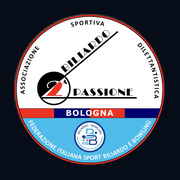
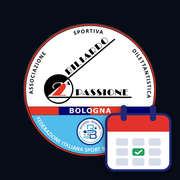
Informativa privacy, prenotazione di orari gia' passati di oggi, nuova icona
Regole: la creazione accetta una prenotazione fino a 16 ore dopo l'inizio.

Claude-Session: https://claude.ai/code/session_013Bh35Dcy3i7okrqVmdRNtn

diff --git a/privacy.html b/privacy.html
@@ -1,0 +1,116 @@
+<!doctype html>
+<html lang="it">
+<head>
+<meta charset="utf-8">
+<meta name="viewport" content="width=device-width,initial-scale=1,viewport-fit=cover">
+<title>Informativa privacy · Prenota 2P</title>
+<link rel="icon" href="img/logo.png">
+<link rel="preconnect" href="https://fonts.gstatic.com" crossorigin>
+<link rel="stylesheet" href="https://fonts.googleapis.com/css2?family=Barlow+Condensed:wght@500;600;700&family=Oswald:wght@600;700&display=swap">
+<link rel="stylesheet" href="css/prenota.css?v=2026112401">
+<style>
+  .manuale li{margin:.35em 0;line-height:1.35}
+  .manuale p{line-height:1.4}
+  .manuale h2 .n{display:inline-block;min-width:1.6em;color:var(--gold)}
+  .manuale a{color:var(--home)}
+  /* parti che il direttivo deve ancora completare: togliere la classe una volta compilate */
+  .da-completare{background:rgba(245,197,66,.18);border-bottom:2px dashed var(--gold);padding:0 3px}
+</style>
+</head>
+<body>
+<header class="testata">
+  <img src="img/logo-96.png" alt="" width="44" height="44">
+  <div class="titoli"><div class="titolo">Informativa privacy</div><div class="sotto">Prenota biliardi</div></div>
+  <a class="sotto destra" href="./">← Torna all'app</a>
+</header>
+<main class="wrap manuale">
+
+<p>Informativa ai sensi degli articoli 13 e 14 del Regolamento (UE) 2016/679 («GDPR») per chi usa l'app
+  di prenotazione dei biliardi <b>Prenota 2P</b>. Ultimo aggiornamento: <span class="da-completare">24 novembre 2026</span>.</p>
+
+<h2><span class="n">1</span>Chi tratta i dati</h2>
+<p>Titolare del trattamento è l'<b>ASD Biliardo Seconda Passione</b>,
+  <span class="da-completare">indirizzo della sede, Bologna</span> — codice fiscale <span class="da-completare">……</span> —
+  email <span class="da-completare">……@……</span>.</p>
+
+<h2><span class="n">2</span>Quali dati</h2>
+<ul>
+  <li><b>Soci registrati</b>: nome e cognome, email, password (custodita in forma cifrata dal servizio di accesso: il circolo non la vede),
+    livello di gioco, ruolo nell'app, data di iscrizione all'app e, per i nuovi soci, il «padrino» indicato dal direttivo.</li>
+  <li><b>Prenotazioni</b>: biliardo, giorno e orario, chi ha prenotato, con chi gioca (nome del socio o nome scritto a mano),
+    tipo di partita (con un'altra persona, da solo, cerco avversario con livello e nota), stato della prenotazione.</li>
+  <li><b>Partite programmate</b>: giorno, orario indicativo, giocatori e note.</li>
+  <li><b>Ospiti</b> (accesso senza registrazione): i nomi scritti nella prenotazione e un codice anonimo che identifica il dispositivo
+    per la sessione; nessuna email.</li>
+  <li><b>Persone indicate da altri</b>: chi prenota può scrivere il nome dell'avversario anche se non è socio. In questo caso il dato
+    non arriva dalla persona stessa: è trattato con le stesse regole e per gli stessi scopi delle altre prenotazioni.</li>
+  <li><b>Dati tecnici</b>: per far funzionare l'app i fornitori indicati al punto 6 ricevono l'indirizzo IP e le informazioni
+    tecniche del browser.</li>
+</ul>
+
+<h2><span class="n">3</span>Perché e su quale base</h2>
+<ul>
+  <li><b>Gestire le prenotazioni dei biliardi</b> e l'uso della sala da parte dei soci: è un servizio che il circolo offre
+    ai propri associati (art. 6.1.b GDPR, esecuzione del rapporto associativo e del servizio richiesto).</li>
+  <li><b>Aiutare i soci a trovare un avversario</b> («Cerco un avversario», bacheca, badge «nuovo socio», padrini):
+    funzione richiesta da chi la usa (art. 6.1.b).</li>
+  <li><b>Prenotazioni da ospite e nomi di non soci</b>: legittimo interesse del circolo a organizzare l'uso dei biliardi
+    (art. 6.1.f GDPR).</li>
+  <li><b>Statistiche d'uso dei tavoli</b> per il direttivo (ore occupate, fasce orarie, uso dei biliardi): legittimo interesse
+    del circolo a organizzare la sala (art. 6.1.f). Le statistiche sono visibili solo al direttivo.</li>
+  <li><b>Sicurezza</b> dell'app e prevenzione degli abusi (art. 6.1.f).</li>
+</ul>
+<p>I dati non sono usati per pubblicità, profilazione o decisioni automatiche e non sono ceduti a terzi.</p>
+
+<h2><span class="n">4</span>Chi li vede</h2>
+<ul>
+  <li><b>Gli altri soci abilitati</b> vedono nome, livello e prenotazioni (con i nomi dei giocatori).</li>
+  <li><b>Gli ospiti</b> vedono solo che un biliardo è occupato, senza nomi.</li>
+  <li><b>Il direttivo</b> (utenze amministratore) vede anche le email, abilita o sospende le utenze, conferma le prenotazioni
+    da ospite e consulta le statistiche.</li>
+</ul>
+
+<h2><span class="n">5</span>Per quanto tempo</h2>
+<ul>
+  <li>Utenza e scheda del socio: finché si è soci e si usa l'app; vengono cancellate su richiesta o
+    <span class="da-completare">entro 3 mesi</span> dalla fine dell'iscrizione al circolo.</li>
+  <li>Prenotazioni con i nomi: <span class="da-completare">24 mesi</span>; dopo, i nomi vengono tolti e restano solo i dati
+    anonimi per le statistiche (biliardo, giorno, orario, durata).</li>
+  <li>Utenze ospite inutilizzate: <span class="da-completare">12 mesi</span>.</li>
+</ul>
+
+<h2><span class="n">6</span>Dove sono custoditi e fornitori</h2>
+<ul>
+  <li><b>Google Firebase</b> (Google Ireland Ltd / Google LLC): database e servizio di accesso. Il database si trova su server
+    in <b>Belgio</b> (regione europe-west1). Google agisce come responsabile del trattamento secondo i
+    «Firebase Data Processing and Security Terms»; eventuali trasferimenti verso gli Stati Uniti sono coperti dall'EU-US
+    Data Privacy Framework e dalle clausole contrattuali standard.</li>
+  <li><b>GitHub</b> (GitHub Inc., Stati Uniti): ospita le pagine dell'app (GitHub Pages) e riceve l'indirizzo IP
+    di chi la apre, per erogare le pagine e per sicurezza.</li>
+  <li><b>Google Fonts</b>: i caratteri del testo sono scaricati dai server di Google, che ricevono l'indirizzo IP.</li>
+</ul>
+
+<h2><span class="n">7</span>Cookie e memoria del browser</h2>
+<p>L'app non usa cookie di profilazione né strumenti di analisi. Salva nella memoria del browser solo la sessione di accesso
+  (per non dover rientrare ogni volta) e, per gli ospiti, l'elenco delle proprie prenotazioni sul dispositivo. Sono strumenti
+  tecnici necessari al servizio richiesto: per questo non serve il consenso. La sessione si cancella con «Esci»; tutto si
+  cancella svuotando i dati del sito nelle impostazioni del browser.</p>
+
+<h2><span class="n">8</span>Minori</h2>
+<p>I soci minori di 14 anni possono registrarsi solo con il consenso di chi esercita la responsabilità genitoriale,
+  da comunicare al direttivo.</p>
+
+<h2><span class="n">9</span>I tuoi diritti</h2>
+<p>Puoi chiedere in qualsiasi momento di accedere ai tuoi dati, correggerli, cancellarli, limitarne l'uso, riceverli in formato
+  leggibile e opporti al trattamento basato sul legittimo interesse (articoli 15–22 GDPR). Il livello di gioco e la password
+  si cambiano anche dall'app, nella scheda <b>Profilo</b>. Per tutto il resto scrivi a
+  <span class="da-completare">……@……</span>. Hai anche diritto di presentare reclamo al
+  <a href="https://www.garanteprivacy.it" target="_blank" rel="noopener">Garante per la protezione dei dati personali</a>.</p>
+
+<h2><span class="n">10</span>Dati obbligatori</h2>
+<p>Nome, email e password sono necessari per avere un'utenza; senza, si può comunque prenotare come ospite. Il livello di gioco
+  serve solo per la funzione «Cerco un avversario».</p>
+
+</main>
+</body>
+</html>

diff --git a/index.html b/index.html
@@ -8,14 +8,14 @@
 <link rel="icon" href="img/logo.png">
 <link rel="manifest" href="manifest.webmanifest">
 <meta name="theme-color" content="#070d18">
-<link rel="apple-touch-icon" href="img/icona-180.png">
+<link rel="apple-touch-icon" href="img/icona-180.png?v=2">
 <meta name="mobile-web-app-capable" content="yes">
 <meta name="apple-mobile-web-app-capable" content="yes">
 <meta name="apple-mobile-web-app-status-bar-style" content="black">
 <meta name="apple-mobile-web-app-title" content="Prenota 2P">
 <link rel="preconnect" href="https://fonts.gstatic.com" crossorigin>
 <link rel="stylesheet" href="https://fonts.googleapis.com/css2?family=Barlow+Condensed:wght@500;600;700&family=Oswald:wght@600;700&display=swap">
-<link rel="stylesheet" href="css/prenota.css?v=2026112306">
+<link rel="stylesheet" href="css/prenota.css?v=2026112401">
 </head>
 <body>
 <header class="testata">
@@ -42,7 +42,8 @@
   <div class="pannello">
     <p>Non sei registrato, o usi il tablet della sala?</p>
     <button class="btn grande" type="button" id="entra-ospite">Entra come ospite</button>
-    <p class="meta">Da ospite prenoti scrivendo i nomi dei giocatori; la prenotazione viene confermata dal direttivo.</p>
+    <p class="meta">Da ospite prenoti scrivendo i nomi dei giocatori; la prenotazione viene confermata dal direttivo.
+      <a href="privacy.html">Informativa privacy</a></p>
   </div>
   <form id="form-registrati" class="pannello" hidden>
     <p>Registrati con la tua email. Il direttivo controlla che tu sia socio e abilita l'utenza: poi potrai prenotare.</p>
@@ -58,7 +59,8 @@
     <summary>Informativa sui dati personali</summary>
     <p>L'ASD Biliardo Seconda Passione conserva nome, cognome, email e livello di gioco dei soci, e le loro prenotazioni,
       solo per gestire l'uso dei biliardi. Nome e prenotazioni sono visibili agli altri soci abilitati; l'email solo al direttivo.
-      I dati sono custoditi su Google Firebase (server in Belgio). Per farli correggere o cancellare scrivi al direttivo.</p>
+      I dati sono custoditi su Google Firebase (server in Belgio). Per farli correggere o cancellare scrivi al direttivo.
+      <a href="privacy.html">Leggi l'informativa completa</a>.</p>
   </details>
 </main>
 
@@ -105,6 +107,7 @@
       <p id="avviso-padrini" class="avviso padrini" hidden></p>
       <div class="legenda">
         <span class="lg libera">Libero</span>
+        <span class="lg passata">Libero, orario già passato</span>
         <span class="lg presto">Non ancora prenotabile</span>
         <span class="lg aperta">Cerca avversario</span>
         <span class="lg confermata">Prenotato</span>
@@ -149,6 +152,7 @@
       <div class="pannello">
         <button class="btn" id="cambia-pw" type="button">Cambia password</button>
         <a class="btn" href="manuale.html">Come si usa</a>
+        <a class="btn" href="privacy.html">Informativa privacy</a>
         <button class="btn" id="esci" type="button">Esci</button>
       </div>
     </section>
@@ -228,14 +232,14 @@
 
 <div id="toast" role="status" aria-live="polite"></div>
 
-<script src="js/config.js?v=2026112306"></script>
-<script src="js/util.js?v=2026112306"></script>
-<script src="js/dati.js?v=2026112306"></script>
-<script src="js/griglia.js?v=2026112306"></script>
-<script src="js/prenotazione.js?v=2026112306"></script>
-<script src="js/bacheca.js?v=2026112306"></script>
-<script src="js/partite.js?v=2026112306"></script>
-<script src="js/soci.js?v=2026112306"></script>
-<script src="js/avvio.js?v=2026112306"></script>
+<script src="js/config.js?v=2026112401"></script>
+<script src="js/util.js?v=2026112401"></script>
+<script src="js/dati.js?v=2026112401"></script>
+<script src="js/griglia.js?v=2026112401"></script>
+<script src="js/prenotazione.js?v=2026112401"></script>
+<script src="js/bacheca.js?v=2026112401"></script>
+<script src="js/partite.js?v=2026112401"></script>
+<script src="js/soci.js?v=2026112401"></script>
+<script src="js/avvio.js?v=2026112401"></script>
 </body>
 </html>

diff --git a/manuale.html b/manuale.html
@@ -7,7 +7,7 @@
 <link rel="icon" href="img/logo.png">
 <link rel="preconnect" href="https://fonts.gstatic.com" crossorigin>
 <link rel="stylesheet" href="https://fonts.googleapis.com/css2?family=Barlow+Condensed:wght@500;600;700&family=Oswald:wght@600;700&display=swap">
-<link rel="stylesheet" href="css/prenota.css?v=2026112306">
+<link rel="stylesheet" href="css/prenota.css?v=2026112401">
 <style>
   .manuale li{margin:.35em 0;line-height:1.35}
   .manuale h2 .n{display:inline-block;min-width:1.6em;color:var(--gold)}
@@ -36,6 +36,7 @@
   <li>Le partite che iniziano <b>prima delle 13</b> si prenotano dalle <b>21 della sera prima</b>; quelle che iniziano <b>dalle 13 alle 22</b>, dalle <b>9 del giorno stesso</b>.
     In alto scegli <b>Oggi</b> o <b>Domani</b>.</li>
   <li>Ogni colonna è un biliardo, ogni riga mezz'ora. Tocca uno spazio <b>verde</b> all'ora in cui vuoi iniziare: vengono proposte <b>2 ore</b> (o meno, se dopo c'è già un'altra prenotazione).</li>
+  <li>Si possono segnare anche partite <b>già iniziate o giocate oggi</b> senza prenotare: le caselle degli orari passati sono più scure, con un filo verde.</li>
   <li>Per cambiare orario o durata <b>trascina</b> il riquadro azzurro (o le sue maniglie in alto e in basso), oppure usa i pulsanti in basso: <b>▲ prima / ▼ dopo</b> e <b>− / +</b>. Si va da 30 minuti a 4 ore. Trascinandolo di lato cambi biliardo.</li>
   <li>Tocca <b>Avanti</b> e scegli con chi giochi: <b>con un'altra persona</b> (scrivi il nome; se è socio compare tra i suggerimenti; se non lo è spunta «Non è socio»), <b>da solo</b> o <b>cerco un avversario</b>. Poi tocca <b>Prenota</b>.</li>
   <li>Gli spazi a righe non sono ancora prenotabili; quelli scuri sono passati.</li>
@@ -82,6 +83,7 @@
 
 <h2 id="novita"><span class="n">8</span>Novità</h2>
 <ul>
+  <li><b>24 novembre 2026</b> — Si possono prenotare anche orari già passati di oggi. Nuova icona dell'app. Informativa privacy completa (in fondo alla pagina di accesso e nel Profilo).</li>
   <li><b>23 novembre 2026</b> — Le prenotazioni compaiono anche quando il browser ha molte finestre aperte (al massimo con 15 secondi di ritardo).</li>
   <li><b>23 novembre 2026</b> — L'app usa meno connessioni: ora si può tenere aperta anche in più schede o finestre senza che le prenotazioni restino in sospeso.</li>
   <li><b>23 novembre 2026</b> — Corretto il pulsante «Prenota» che poteva restare bloccato con l'app aperta in più schede.</li>

diff --git a/js/griglia.js b/js/griglia.js
@@ -9,7 +9,8 @@ const CHIUDE = () => minuti(SALA.chiusura);
 const TAVOLI = () => Array.from({length: SALA.tavoli}, (_, i) => i + 1);
 const scaduta = p => p.stato === "aperta" && p.scade && p.scade <= Date.now();
 /* si può prenotare adesso una partita che inizia alle "min" del giorno "data"? */
-const prenotabile = (data, min) => Date.now() >= apreAlle(data, min) && msRoma(data, min) > Date.now() && min >= PRIMO() && min <= ULTIMO();
+/* anche un orario già passato di oggi (partita iniziata o giocata senza prenotare): la casella è evidenziata a parte */
+const prenotabile = (data, min) => Date.now() >= apreAlle(data, min) && min >= PRIMO() && min <= ULTIMO();
 
 /* prenotazioni che occupano i biliardi in un giorno (le richieste scadute non contano più) */
 function prenDi(data){
@@ -68,7 +69,7 @@ function disegnaGriglia(){
       if(occupato(lista, t, m, m + STEP())) return;
       const ok = prenotabile(data, m), passato = msRoma(data, m) <= ora;
       h += ok
-        ? `<button class="cella libera" style="grid-row:${riga(m)};grid-column:${t + 1}" data-t="${t}" data-m="${m}" aria-label="Biliardo ${t} alle ${hhmm(m)}"></button>`
+        ? `<button class="cella libera${passato ? " passata" : ""}" style="grid-row:${riga(m)};grid-column:${t + 1}" data-t="${t}" data-m="${m}" aria-label="Biliardo ${t} alle ${hhmm(m)}${passato ? " (orario già passato)" : ""}"></button>`
         : `<div class="cella ${passato || m > ULTIMO() ? "no" : "presto"}" style="grid-row:${riga(m)};grid-column:${t + 1}"></div>`;
     });
   });
@@ -114,7 +115,6 @@ function erroreSel(s){
   if(s.durata > SALA.durataMax) return `Durata massima ${testoDurata(SALA.durataMax)}`;
   if(s.min + s.durata > CHIUDE()) return `Si deve finire entro le ${SALA.chiusura}`;
   if(s.tavolo < 1 || s.tavolo > SALA.tavoli) return "Biliardo non valido";
-  if(msRoma(s.data, s.min) <= Date.now()) return "Quest'orario è già passato";
   if(Date.now() < apreAlle(s.data, s.min))
     return s.min < minuti(SALA.mattinoFinoA) ? `Il mattino si prenota dalle ${SALA.aperturaMattino} della sera prima`
                                              : `Si prenota dalle ${SALA.aperturaPomeriggio} del giorno stesso`;

diff --git a/css/prenota.css b/css/prenota.css
@@ -70,6 +70,7 @@ legend{font-weight:600;padding:0 4px}
 .legenda{display:flex;flex-wrap:wrap;gap:6px 14px;font-size:16px;margin:8px 0}
 .lg::before{content:"";display:inline-block;width:14px;height:14px;border-radius:3px;margin-right:5px;vertical-align:-1px}
 .lg.libera::before{background:var(--libera);border:1px solid var(--ok)}
+.lg.passata::before{background:#0c241b;border:1px solid rgba(34,197,94,.45)}
 .lg.aperta::before{background:var(--gold)}
 .lg.confermata::before{background:var(--pren)}
 .lg.mia::before{border:2px solid var(--home)}
@@ -81,6 +82,9 @@ legend{font-weight:600;padding:0 4px}
 .cella.libera{background:var(--libera);cursor:pointer}
 .cella.libera:hover,.cella.libera:focus-visible{background:var(--libera-hover);outline:2px solid var(--ok)}
 .cella.no{background:rgba(255,255,255,.03)}
+/* orario di oggi già passato: prenotabile, ma più spento e con un filo verde */
+.cella.libera.passata{background:#0c241b;box-shadow:inset 0 0 0 1px rgba(34,197,94,.35)}
+.cella.libera.passata:hover,.cella.libera.passata:focus-visible{background:var(--libera-hover)}
 .pren{border:0;border-radius:7px;padding:4px 5px;text-align:left;font:inherit;font-size:14px;line-height:1.15;overflow-wrap:break-word;hyphens:auto;color:var(--ink);overflow:hidden;cursor:pointer;z-index:1}
 .pren .fascia{display:block;font-size:14px;color:var(--mute)}
 .pren.confermata{background:var(--pren)}
@@ -133,3 +137,4 @@ dialog form{display:grid;gap:12px}
 body.con-barra .wrap{padding-bottom:230px}
 body.con-barra #toast{bottom:240px}
 body.ospite [data-solo-soci]{display:none!important}
+.privacy a,.pannello .meta a{color:var(--home)}

diff --git a/statistiche.html b/statistiche.html
@@ -8,8 +8,8 @@
 <meta name="theme-color" content="#070d18">
 <link rel="preconnect" href="https://fonts.gstatic.com" crossorigin>
 <link rel="stylesheet" href="https://fonts.googleapis.com/css2?family=Barlow+Condensed:wght@500;600;700&family=Oswald:wght@600;700&display=swap">
-<link rel="stylesheet" href="css/prenota.css?v=2026112306">
-<link rel="stylesheet" href="css/statistiche.css?v=2026112306">
+<link rel="stylesheet" href="css/prenota.css?v=2026112401">
+<link rel="stylesheet" href="css/statistiche.css?v=2026112401">
 </head>
 <body class="pagina-stat">
 <header class="testata">
@@ -78,9 +78,9 @@
 <div id="suggerimento" role="tooltip" hidden></div>
 <div id="toast" role="status" aria-live="polite"></div>
 
-<script src="js/config.js?v=2026112306"></script>
-<script src="js/util.js?v=2026112306"></script>
-<script src="js/dati.js?v=2026112306"></script>
-<script src="js/statistiche.js?v=2026112306"></script>
+<script src="js/config.js?v=2026112401"></script>
+<script src="js/util.js?v=2026112401"></script>
+<script src="js/dati.js?v=2026112401"></script>
+<script src="js/statistiche.js?v=2026112401"></script>
 </body>
 </html>

diff --git a/LEGGIMI_prenota.md b/LEGGIMI_prenota.md
@@ -22,6 +22,7 @@ Ha in comune con loro solo lo stack (sito statico, JavaScript classico, Firebase
 index.html               pagina unica dell'app
 manuale.html             istruzioni per i soci
 statistiche.html         statistiche sull'uso dei biliardi (solo admin)
+privacy.html             informativa privacy (artt. 13-14 GDPR); le parti evidenziate «da-completare» le compila il direttivo
 manifest.webmanifest     app installabile "Prenota 2P" (scope /b2p-prenota/)
 css/prenota.css          colori e caratteri (come il Tabellone Live)
 css/statistiche.css      stile della pagina statistiche
@@ -69,6 +70,8 @@ stesso browser), la scheda passa a rileggere le prenotazioni ogni 15 secondi (`a
 - Inizio dalle **8:00** alle **22:00**, a passi di 30 minuti; fine entro le **24:00**.
 - Aperture (ora di Roma): partite che iniziano **prima delle 13** dalle **21 della sera prima**; partite **dalle 13 alle 22** dalle **9 del giorno stesso**.
   Valgono anche per chi gioca da solo. La griglia mostra oggi e domani.
+- Si può prenotare anche un orario **già passato di oggi** (partita iniziata o giocata senza prenotare): le caselle sono
+  più scure con un filo verde. Le regole accettano una prenotazione fino a 16 ore dopo il suo inizio (`now < inizio + 16 h`).
 - Durata: un tocco propone **2 ore** (o meno, se prima della prenotazione successiva c'è meno spazio); si può allungare,
   accorciare e spostare (anche su un altro biliardo) trascinando il riquadro o con i pulsanti, da **30 minuti a 4 ore**.
   Il titolare può modificare la prenotazione finché non è iniziata.
@@ -117,6 +120,9 @@ scritture), quindi non tocca mai il database vero. Le regole non si possono prov
 
 ## Storia delle versioni
 
+- **2026-11-24** — Informativa privacy (`privacy.html`, linkata dall'accesso, dall'ospite e dal Profilo). Prenotazione
+  di orari già passati di oggi, evidenziati a parte. Nuova icona dell'app (logo con calendario; file `img/icona-*`,
+  richiamati con `?v=2` per forzare l'aggiornamento). **Regole cambiate** (`inizio > now` → `now < inizio + 16 h`).
 - **2026-11-23 (5)** — Lettura immediata delle prenotazioni all'apertura, in parallelo all'ascolto: la griglia compare
   subito anche quando l'ascolto tarda a partire.
 - **2026-11-23 (4)** — Alla riapertura degli ascolti (finestra di nuovo in vista) la griglia mantiene i dati già mostrati
